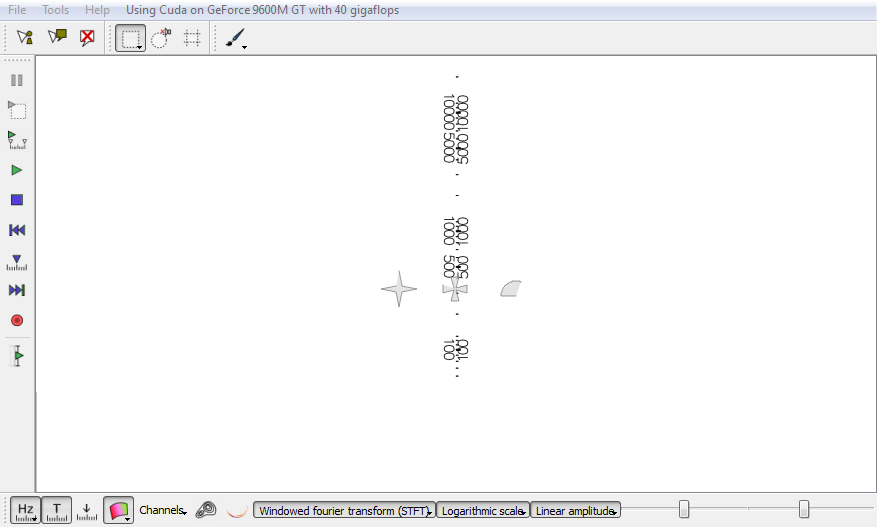
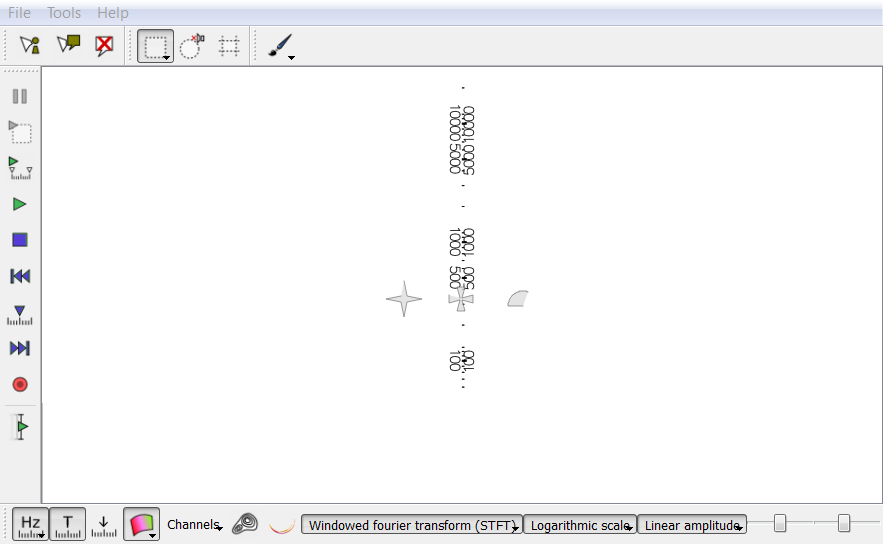
opengui compute device info fix

diff --git a/sonicawe-end2end/opengui/opengui.cpp b/sonicawe-end2end/opengui/opengui.cpp
@@ -112,6 +112,8 @@ template<> void TestClassArguments<OpenGui>(ArgvectorT& argvector)
             break;
         argvector.erase(i);
     } while (true);
+
+    argvector.push_back("--skipfeature=compute_device_info_in_menu");
 }
 
 
